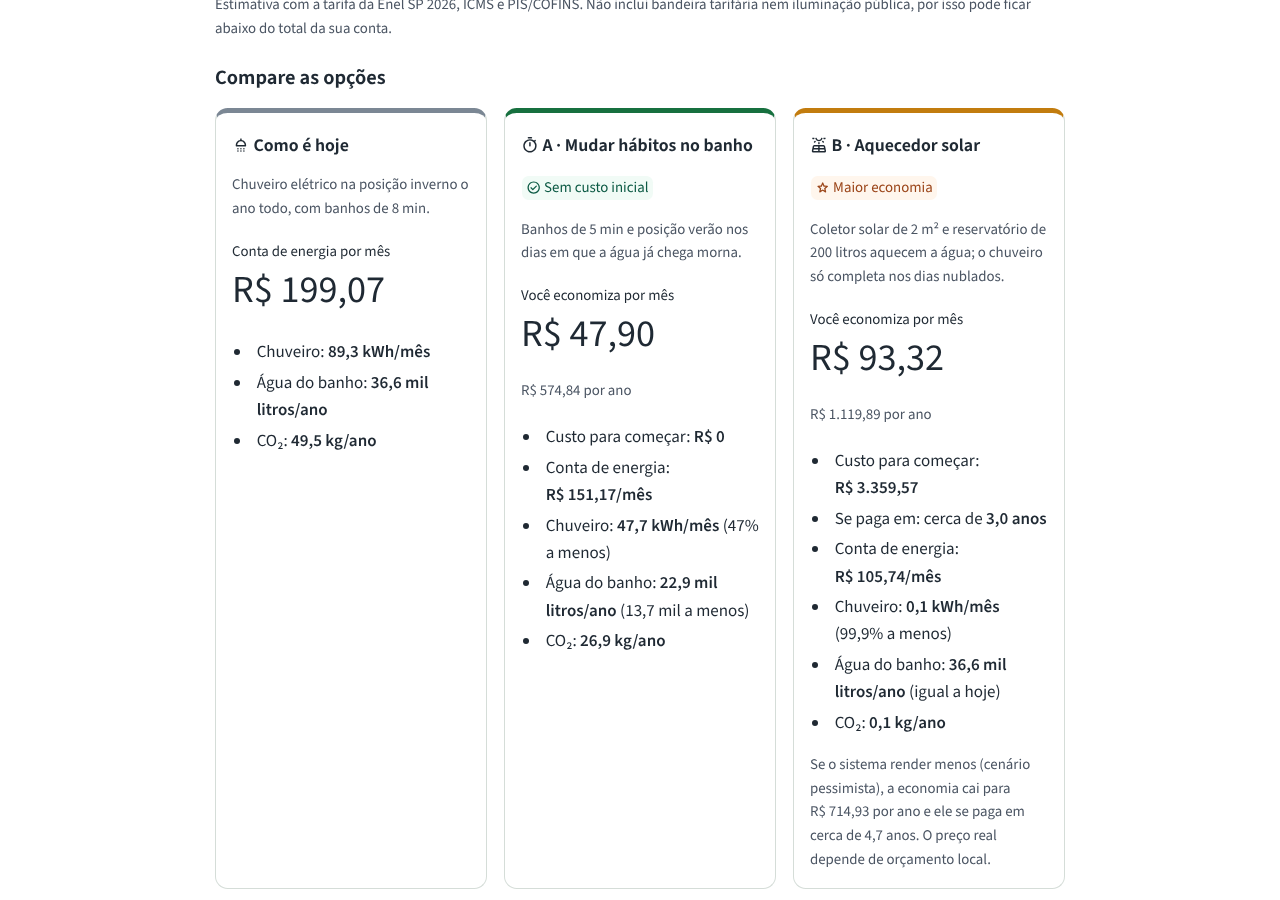
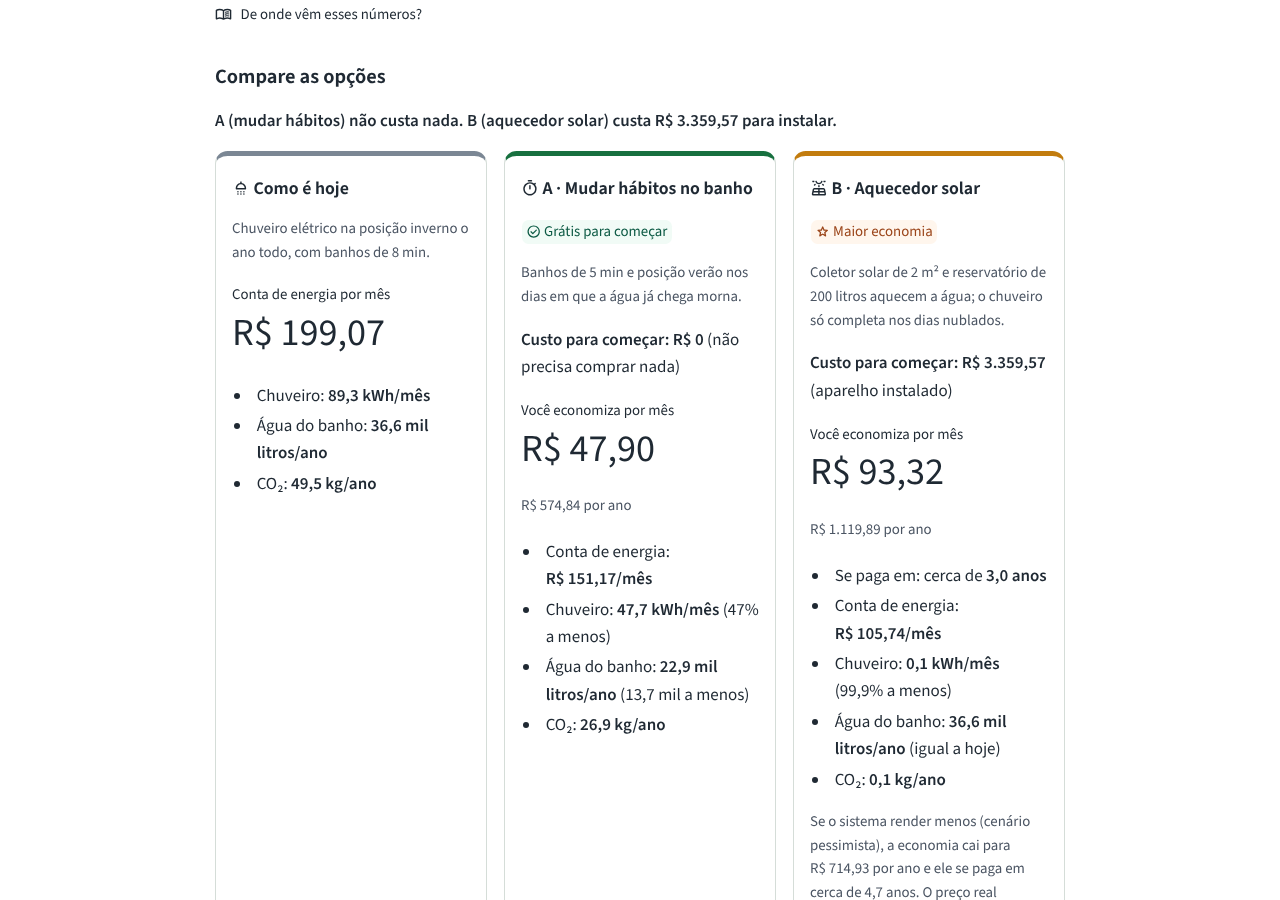
Testes com usuários (5 participantes) e ajustes U1 a U5
- registros.csv com P1 a P5 (sem dados pessoais) e resumo em resultados.md
- U1: aviso 'Não sabe alguma resposta?' e explicações mais claras no formulário
- U2: custo para começar como primeira informação dos cartões
- U3: respostas do assistente mais curtas e simples; lembrete de estimativa
- U4: botão 'De onde vêm esses números?' e tabela 'Principais fontes'
- U5: apresentação diz para quem é o app logo no início
- README, interface.md e capturas de tela atualizados

diff --git a/app.py b/app.py
@@ -219,6 +219,8 @@ def grafico_contas(alts: dict) -> alt.Chart:
 def formulario(casa: dict) -> None:
     st.subheader("1. Conte sobre a sua casa", anchor="casa")
     with st.form("form_casa"):
+        st.info("**Não sabe alguma resposta?** Deixe o valor que já aparece: é o exemplo usado no estudo. "
+                "Depois você pode mudar e calcular de novo.", icon=":material/help:")
         st.number_input("Quantas pessoas tomam banho na sua casa por dia?", 1, 10, casa["pessoas"], 1, key="f_pessoas")
         st.caption("O cálculo considera um banho por pessoa por dia. Se alguém toma dois banhos, conte essa pessoa duas vezes.")
 
@@ -226,11 +228,12 @@ def formulario(casa: dict) -> None:
         st.caption("Exemplo: 8 minutos. Se não souber, cronometre um banho.")
 
         st.number_input("Qual é a potência do chuveiro, em watts (W)?", 2000, 9000, casa["potencia"], 100, key="f_potencia")
-        st.caption("Use a potência maior (posição inverno). Ela aparece na etiqueta, na caixa ou no manual, "
+        st.caption("É a força do chuveiro. Use o valor maior (posição inverno), que aparece na etiqueta, na caixa ou no manual, "
                    "por exemplo 5.500 W ou 7.500 W. Se não souber, deixe 5.500 W, o valor de referência do estudo.")
 
         st.number_input("Quanto de energia a casa gasta por mês, em kWh?", 30, 1000, casa["consumo"], 10, key="f_consumo")
-        st.caption("Está na conta de luz, no campo de consumo em kWh. Se puder, use a média dos últimos meses.")
+        st.caption("É o consumo da casa no mês, o número que aparece na conta de luz junto de \"kWh\" (por exemplo, 200 kWh). "
+                   "Se puder, use a média dos últimos meses. Se não souber, deixe 200.")
 
         st.radio(
             "A sua conta de luz tem desconto social?", list(PERFIS), index=list(PERFIS).index(casa["perfil"]),
@@ -272,6 +275,10 @@ def cartao_alternativa(chave: str, alt_: dict, L0: dict, selos: list[str], descr
         if selos:
             st.markdown(" ".join(selos))
         st.caption(descricao)
+        if alt_["investimento_rs"] > 0:
+            st.markdown(f"**Custo para começar: {rs(alt_['investimento_rs'])}** (aparelho instalado)")
+        else:
+            st.markdown("**Custo para começar: R$ 0** (não precisa comprar nada)")
         if alt_["economia_ano_rs"] > 0:
             st.metric("Você economiza por mês", rs(alt_["economia_mes_medio_rs"]))
             st.caption(f"{rs(alt_['economia_ano_rs'])} por ano")
@@ -279,12 +286,11 @@ def cartao_alternativa(chave: str, alt_: dict, L0: dict, selos: list[str], descr
             st.metric("Você economiza por mês", "R$ 0,00")
             st.caption("Com estes dados não há economia na conta.")
         if alt_["investimento_rs"] > 0:
-            custo = f"**{rs(alt_['investimento_rs'])}**"
             retorno = (f"cerca de **{num(alt_['retorno_simples_anos'], 1)} anos**" if alt_["retorno_simples_anos"]
                        else "**não se paga** com estes dados")
-            linhas = [f"Custo para começar: {custo}", f"Se paga em: {retorno}"]
+            linhas = [f"Se paga em: {retorno}"]
         else:
-            linhas = ["Custo para começar: **R$ 0**"]
+            linhas = []
         menos_agua = L0["agua_m3_ano"] - alt_["agua_m3_ano"]
         agua = (f"**{num(alt_['agua_m3_ano'], 1)} mil litros/ano** ({num(menos_agua, 1)} mil a menos)" if menos_agua > 0.05
                 else f"**{num(alt_['agua_m3_ano'], 1)} mil litros/ano** (igual a hoje)")
@@ -326,8 +332,16 @@ def resultado(res, sens, recs, casa: dict, recem_calculado: bool) -> None:
     st.altair_chart(grafico_contas(res.alternativas), width="stretch")
     st.caption("Estimativa com a tarifa da Enel SP 2026, ICMS e PIS/COFINS. Não inclui bandeira tarifária nem "
                "iluminação pública, por isso pode ficar abaixo do total da sua conta.")
+    st.button("De onde vêm esses números?", icon=":material/menu_book:", type="tertiary", on_click=ir_para,
+              args=("fontes",), key="ir_fontes_grafico")
 
     st.markdown("#### Compare as opções")
+    custo_a, custo_b = A["investimento_rs"], B["investimento_rs"]
+    st.markdown(
+        ("**A (mudar hábitos) não custa nada.** " if custo_a == 0 else f"**A (mudar hábitos) custa {rs(custo_a)}.** ")
+        + (f"**B (aquecedor solar) custa {rs(custo_b)} para instalar.**" if custo_b > 0
+           else "**B (aquecedor solar) não custa nada com estes dados.**")
+    )
     economias = {k: res.alternativas[k]["economia_ano_rs"] for k in ("A", "B")}
     maior = max(economias, key=economias.get)
     selos = {}
@@ -335,7 +349,7 @@ def resultado(res, sens, recs, casa: dict, recem_calculado: bool) -> None:
         alt_ = res.alternativas[k]
         s = []
         if alt_["investimento_rs"] == 0 and alt_["economia_ano_rs"] > 0:
-            s.append(":green-badge[:material/check_circle: Sem custo inicial]")
+            s.append(":green-badge[:material/check_circle: Grátis para começar]")
         if k == maior and economias[k] > 0:
             s.append(":orange-badge[:material/star: Maior economia]")
         selos[k] = s
@@ -421,13 +435,13 @@ def resultado(res, sens, recs, casa: dict, recem_calculado: bool) -> None:
 def secao_simular(res, sens, recs, recem_calculado: bool) -> None:
     with st.container(border=True, key="hero"):
         st.markdown("### Quanto o banho pesa na sua conta de luz?")
+        st.markdown("Para famílias que moram em casa na Grande São Paulo e tomam banho com **chuveiro elétrico**.")
         st.markdown(
             "Responda **5 perguntas rápidas** e veja, para a sua casa:\n"
             "- quanto o chuveiro elétrico gasta hoje;\n"
             "- quanto você economiza **mudando hábitos**, sem gastar nada;\n"
             "- quanto economiza com **aquecedor solar** e em quanto tempo ele se paga."
         )
-        st.caption("Para famílias que moram em casa na Grande São Paulo e usam chuveiro elétrico.")
     formulario(ss.casa)
     if not ss.calculado:
         st.info("Responda as perguntas e toque em **Calcular minha economia** para ver o resultado da sua casa.",
@@ -449,7 +463,7 @@ def mostrar_resposta(m: dict) -> None:
         return
     if m.get("rotulo"):
         st.caption(m["rotulo"])
-    st.caption(FONTES_RESUMO)
+    st.caption("Os valores são estimativas, não garantias. " + FONTES_RESUMO)
     if m.get("nao_conferidos"):
         st.warning("**Atenção:** a resposta citou números que não aparecem nos cálculos ("
                    + ", ".join(m["nao_conferidos"]) + "). Confira os valores na seção Simular.",
@@ -544,6 +558,7 @@ def secao_assistente(res, sens, recs, perfis) -> None:
     if not ss.mensagens:
         st.pills("Perguntas sugeridas", SUGESTOES, key="sugestao", on_change=escolher_sugestao)
     else:
+        st.caption("Quer perguntar mais? Escreva no campo do fim da tela ou abra as perguntas sugeridas.")
         with st.expander("Ver perguntas sugeridas", icon=":material/lightbulb:"):
             st.pills("Perguntas sugeridas", SUGESTOES, key="sugestao", on_change=escolher_sugestao,
                      label_visibility="collapsed")
@@ -560,7 +575,17 @@ def secao_fontes(res, casa: dict) -> None:
         "Todos os números do app são **calculados pelo código** a partir de dados públicos. A IA generativa não "
         "cria valores: ela só explica os resultados, e o app confere os números de cada resposta."
     )
-    st.markdown("#### Fontes")
+    st.markdown("#### Principais fontes")
+    st.markdown(
+        "| O que foi calculado | Fonte |\n| --- | --- |\n"
+        "| Tarifa de energia | **ANEEL** (tarifa da Enel SP de 2026) |\n"
+        "| Sol e clima de São Paulo | **Open-Meteo** e **CRESESB** |\n"
+        "| Consumo e eficiência do chuveiro | **INMETRO** e **Idec** |\n"
+        "| Custo do aquecedor solar | **SINAPI** (item 103517) |\n"
+        "| Emissões de CO₂ | **MCTI** |\n"
+        "| Tempo de banho recomendado | **Sabesp** |"
+    )
+    st.markdown("**Detalhes de cada fonte**")
     st.markdown("\n".join(f"- {f_}" for f_ in FONTES_CURTAS))
     st.markdown(f":material/open_in_new: [Ver a lista completa de referências, com links]({REPO}/blob/main/docs/referencias.md)")
 

diff --git a/assistente/__init__.py b/assistente/__init__.py
@@ -24,7 +24,7 @@ Regras obrigatórias:
 1. Use SOMENTE os números da FICHA DE CÁLCULO abaixo, escritos exatamente como na ficha (ex.: R$ 1.119,89; 1.070 kWh/ano; 99,9%), sem arredondar. Não faça contas novas e não invente valores. Mantenha a unidade, o período (por mês, por ano) e o rótulo de cada número: não confunda "consumo do chuveiro" com "energia economizada". Se o número pedido não estiver na ficha, diga que ele não foi calculado e peça para ajustar os dados na seção "Simular" do app.
 2. Deixe claro que são estimativas, não garantias.
 3. Ao recomendar, considere custo, investimento, retorno, impacto ambiental (CO2 e água) e as limitações listadas na ficha. Quando falar do aquecimento solar, cite também o cenário pessimista da sensibilidade.
-4. Responda em português do Brasil, com linguagem simples, em no máximo 170 palavras. Listas curtas ajudam. Termine SEMPRE com duas linhas: "Limitações:" (uma frase com a limitação mais relevante para a pergunta) e "Fontes:" (as instituições e documentos da seção "Fontes" da ficha ligados à resposta, como ANEEL, SINAPI, CRESESB, INMETRO, MCTI; não escreva "ficha de cálculo").
+4. Responda em português do Brasil, para quem não é da área: comece com uma frase curta que responde direto à pergunta, use palavras simples, explique siglas e escreva no máximo 120 palavras. Listas curtas ajudam. Termine SEMPRE com duas linhas: "Limitações:" (uma frase com a limitação mais relevante para a pergunta) e "Fontes:" (as instituições e documentos da seção "Fontes" da ficha ligados à resposta, como ANEEL, SINAPI, CRESESB, INMETRO, MCTI; não escreva "ficha de cálculo").
 5. Se a pergunta não for sobre energia ou água no banho, ou sobre esta análise, diga educadamente que você só ajuda com esse tema.
 6. Não peça dados pessoais (CPF, endereço, número de cliente).
 7. Se o usuário informar dados diferentes dos da ficha (outro chuveiro, outra conta), não recalcule: peça para alterar no simulador.

diff --git a/tests/test_app.py b/tests/test_app.py
@@ -44,7 +44,9 @@ def test_calcular_mostra_cartoes_e_selos_conferidos(monkeypatch):
     rotulos = [m.label for m in at.metric]
     assert rotulos == ["Conta de energia por mês", "Você economiza por mês", "Você economiza por mês"]
     textos = _textos(at)
-    assert "Sem custo inicial" in textos and "Maior economia" in textos
+    assert "Grátis para começar" in textos and "Maior economia" in textos
+    assert "A (mudar hábitos) não custa nada." in textos and "Custo para começar: R$ 0" in textos
+    assert at.button(key="ir_fontes_grafico").label == "De onde vêm esses números?"
     assert "cenário pessimista" in " ".join(c.value for c in at.caption)
     assert any(s.value == "2. O resultado da sua casa" for s in at.subheader)
 

diff --git a/docs/testes_usuarios/resultados.md b/docs/testes_usuarios/resultados.md
@@ -1,0 +1,41 @@
+# Resultados dos testes com usuários
+
+**Quando e como:** 17/11/2026, 5 participantes (P1 a P5) que não participaram do desenvolvimento, seguindo o [`roteiro.md`](roteiro.md) com o app publicado (interface versão 2). Três usaram celular e dois, notebook; todos usaram o assistente com IA generativa. Nenhum dado pessoal foi registrado: só códigos, perfil geral e faixa da conta. Os registros completos estão em [`registros.csv`](registros.csv).
+
+**Perfil:** 3 moram em casa e 2 em apartamento; de 2 a 5 pessoas por casa; contas de 100 a 250 kWh/mês; todos usam chuveiro elétrico. Quem mora em apartamento está fora do público principal do aquecedor solar (que precisa de telhado), mas a alternativa A vale para todos.
+
+## Tarefas
+
+| Participante | 1. Para quem é | 2. Consumo do chuveiro | 3. Melhor opção e opção sem custo | 4. Assistente | 5. Fontes |
+| --- | --- | --- | --- | --- | --- |
+| P1 | sim | sim | sim | sim | sim |
+| P2 | sim | parcial | parcial | parcial | não |
+| P3 | parcial | sim | sim | não | sim |
+| P4 | sim | parcial | sim | sim | parcial |
+| P5 | sim | sim | parcial | sim | sim |
+| **Sem ajuda (sim)** | **4 de 5** | **3 de 5** | **3 de 5** | **3 de 5** | **3 de 5** |
+
+## Notas dadas pelos participantes (1 a 5)
+
+| Afirmação | Média | Notas |
+| --- | --- | --- |
+| Entendi os resultados (clareza) | 4,2 | 5, 3, 4, 4, 5 |
+| Isso me ajudaria a decidir algo em casa (utilidade) | 4,4 | 5, 4, 4, 5, 4 |
+| Confio nos números, sabendo que são estimativas (confiança) | 4,0 | 4, 3, 4, 4, 5 |
+| Foi fácil usar (facilidade) | 3,8 | 5, 3, 4, 3, 4 |
+
+## O que os testes mostraram
+
+- **Compreensão:** todos entenderam o objetivo (um com demora) e os cinco calcularam o consumo (dois com ajuda). Saber quanto o chuveiro pesa na conta foi elogiado por P1 e P4.
+- **Utilidade:** foi a nota mais alta (4,4). Os comentários dizem que o app mostra um gasto que normalmente não se percebe (P2, P3) e que mudar hábitos é mais fácil para começar (P1).
+- **Onde travaram:** entender alguma informação do formulário (2 pessoas), perceber qual opção não custa nada (2), interpretar a resposta do assistente (2) e achar ou usar as fontes (2). Facilidade foi a nota mais baixa (3,8).
+
+## Ajustes feitos
+
+Os cinco problemas viraram os ajustes U1 a U5 (formulário, custo nos cartões, respostas do assistente, caminho para as fontes e apresentação), descritos em [`ajustes.md`](ajustes.md). Uma sugestão (mostrar outros aparelhos além do chuveiro) não foi incorporada, porque o escopo da análise é o banho.
+
+## Limitações deste teste
+
+- Amostra pequena e de conveniência (pessoas convidadas pela equipe); as notas não representam toda a população.
+- Um único facilitador observou e anotou as sessões.
+- Os ajustes ainda não foram testados de novo com participantes.

diff --git a/docs/testes_usuarios/ajustes.md b/docs/testes_usuarios/ajustes.md
@@ -4,7 +4,12 @@ Preencha uma linha por problema encontrado nos testes com usuários (ver `roteir
 
 | # | Participante(s) | Problema observado | Ajuste feito | Arquivo/commit | Status |
 | --- | --- | --- | --- | --- | --- |
-| 1 |  |  |  |  |  |
+| U1 | P2, P4 (tarefa 2) | Dificuldade para entender uma das informações pedidas no formulário; precisaram de orientação. Os dois comentaram que algumas informações poderiam ser mais explicadas | Aviso no topo do formulário ("Não sabe alguma resposta? Deixe o valor que já aparece...") e explicações mais claras da potência do chuveiro e do consumo em kWh | `app.py` (formulário) | Feito. O registro não diz qual informação confundiu, então o ajuste vale para o formulário todo |
+| U2 | P2, P5 (tarefa 3) | Não perceberam de imediato qual opção não custa nada | "Custo para começar" virou a primeira informação de cada cartão; frase em destaque acima dos cartões ("A (mudar hábitos) não custa nada. B (aquecedor solar) custa R$ 3.359,57 para instalar."); selo "Grátis para começar" | `app.py` (cartões) | Feito |
+| U3 | P2, P3 (tarefa 4) | Dificuldade para interpretar a resposta do assistente e dizer que era estimativa; uma pessoa não fez a segunda pergunta | Regras da IA: começar com uma frase curta que responde direto, palavras simples, siglas explicadas, no máximo 120 palavras (antes, 170); "Os valores são estimativas, não garantias" embaixo de toda resposta; dica de como fazer outra pergunta | `assistente/__init__.py`, `app.py` | Feito |
+| U4 | P2, P4 (tarefa 5 e comentários) | Uma pessoa não encontrou a seção Fontes sem ajuda; outra encontrou, mas não apontou uma fonte específica | Botão "De onde vêm esses números?" logo abaixo do gráfico do resultado; a seção Fontes começa com a tabela "Principais fontes" (o que foi calculado × instituição, em negrito) | `app.py` | Feito |
+| U5 | P3 (tarefa 1) | Não ligou de imediato o app ao banho e ao chuveiro elétrico | A apresentação começa dizendo para quem é: famílias que moram em casa e tomam banho com chuveiro elétrico | `app.py` (apresentação) | Feito |
+| N1 | P3 (comentário) | Sugeriu mostrar outras formas de economizar energia além do chuveiro | Não incorporado: o escopo da análise é o banho. Fica como ideia para uma versão futura | — | Não incorporado |
 
 ## Ajustes anteriores, vindos de testes técnicos da equipe (não são testes com usuários)
 

diff --git a/README.md b/README.md
@@ -100,7 +100,7 @@ Principais limitações: estimativas (não garantias); conta sem bandeiras e COS
 ## Testes
 
 - **Técnicos:** 63 testes automatizados (contas à mão, faixas tarifárias, reservatório, falhas da IA, caminho completo na interface sem chave). Ver [`docs/testes_tecnicos.md`](docs/testes_tecnicos.md).
-- **Com usuários:** roteiro em [`docs/testes_usuarios/roteiro.md`](docs/testes_usuarios/roteiro.md). Os registros (`registros.csv`) e os ajustes (`ajustes.md`) são preenchidos à medida que os testes acontecem; até 17/11/2026 nenhum teste com usuários havia sido registrado.
+- **Com usuários:** 5 participantes em 17/11/2026, sem dados pessoais (códigos P1 a P5), seguindo o [roteiro](docs/testes_usuarios/roteiro.md). Tarefas feitas sem ajuda: entender para quem é o app, 4 de 5; calcular o consumo, achar a melhor opção e a opção sem custo, usar o assistente e achar as fontes, 3 de 5 cada. Notas médias (1 a 5): clareza 4,2 · utilidade 4,4 · confiança 4,0 · facilidade 3,8. Os problemas viraram os ajustes U1 a U5 (formulário, custo nos cartões, respostas do assistente, caminho para as fontes e apresentação). Resumo: [`resultados.md`](docs/testes_usuarios/resultados.md) · registros: [`registros.csv`](docs/testes_usuarios/registros.csv) · ajustes: [`ajustes.md`](docs/testes_usuarios/ajustes.md).
 
 ## Estrutura
 

diff --git a/docs/interface.md b/docs/interface.md
@@ -73,6 +73,6 @@ Contrastes calculados com a fórmula de luminância relativa da WCAG 2.1.
 
 ## 8. O que ainda falta
 
-- Testes com pessoas de fora da equipe (`docs/testes_usuarios/roteiro.md`). As escolhas acima vêm de uma revisão de usabilidade, **não** de testes com usuários; os testes vão mostrar o que ainda confunde.
+- Os testes com 5 pessoas (17/11/2026, `docs/testes_usuarios/resultados.md`) geraram os ajustes U1 a U5, já aplicados: aviso "Não sabe alguma resposta?" no formulário, custo como primeira informação dos cartões, respostas do assistente mais curtas e simples, botão "De onde vêm esses números?" e tabela "Principais fontes". Esses ajustes ainda não foram testados de novo com participantes.
 - Repetir o checklist manual da equipe no celular de cada integrante com a interface nova.
 - A página continua marcada como inglês para leitores de tela (`<html lang="en">`, padrão do Streamlit); não encontramos opção de configuração para mudar isso.
